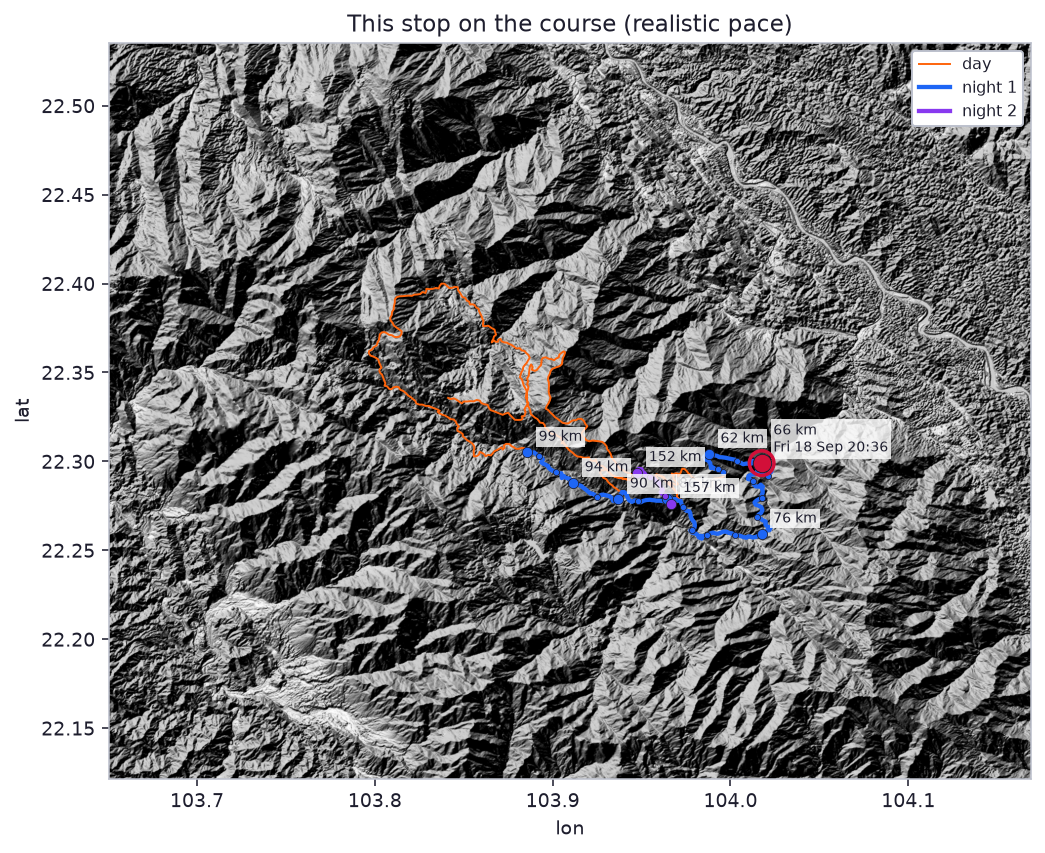
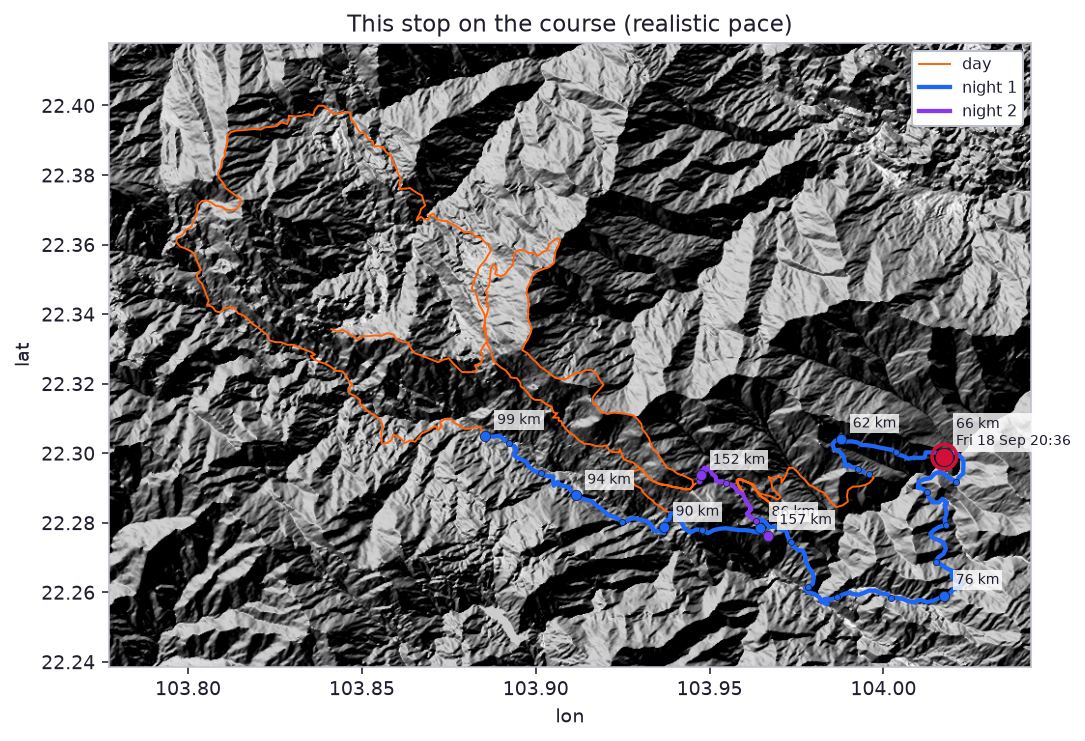
fix: crop course maps to the track
The hillshade used the 15 km DEM buffer, so the route sat in empty terrain. Frame the track plus 2 km so the day and night stretches fill the map.

diff --git a/scripts/plots.py b/scripts/plots.py
@@ -16,7 +16,7 @@ from catalog import NAV_STARS
 from config import REPO_ROOT, data_dir, load_config
 from horizon import horizon_along_azs, horizon_at_az, horizon_profile, load_dem_array
 from report import altitude_stem, fmt_hours, fmt_time, rows_for_sample, sample_stem
-from utils import dump_json, ensure_parent, load_json, sample_along
+from utils import bbox_of, dump_json, ensure_parent, expand_bbox, load_json, sample_along
 
 from gpx import read_track, write_spots_gpx
 
@@ -40,6 +40,7 @@ LOCAL_PEAK_BUMP = 0.08
 SPOT_GAP_KM = 4.0
 SPOT_MAX_PER_NIGHT = 8
 SPOT_SCORE_FLOOR = 0.7
+COURSE_PAD_KM = 2.0
 NIGHT_COLORS = {1: "#1e66f5", 2: "#8839ef", 3: "#40a02b"}
 PLANET_COLORS = {
     "Mercury": "#7c7f93",
@@ -360,6 +361,18 @@ def _draw_hillshade(ax: Any, dem_array: np.ndarray, dem_transform: Any) -> None:
     )
 
 
+def _frame_track(
+    ax: Any,
+    lons: np.ndarray,
+    lats: np.ndarray,
+    pad_km: float = COURSE_PAD_KM,
+) -> None:
+    box = expand_bbox(bbox_of(lons, lats), pad_km)
+    ax.set_xlim(box["west"], box["east"])
+    ax.set_ylim(box["south"], box["north"])
+    ax.set_aspect("equal", adjustable="box")
+
+
 def _draw_course_track(
     ax: Any,
     lons: np.ndarray,
@@ -474,7 +487,7 @@ def plot_course(
             if is_hi:
                 text = f"{text}\n{fmt_time(sample['time'])}"
             _annotate(ax, text, (sample["lon"], sample["lat"]))
-    ax.set_aspect("equal", adjustable="box")
+    _frame_track(ax, lons, lats)
     ax.set_xlabel("lon")
     ax.set_ylabel("lat")
     title = "Stargazing stops on course (realistic pace)"
@@ -556,7 +569,7 @@ def plot_spots(
             f"{row['dist_km']:.0f} km · {row['score']:.2f}",
             (row["lon"], row["lat"]),
         )
-    ax_map.set_aspect("equal", adjustable="box")
+    _frame_track(ax_map, lons, lats)
     ax_map.set_xlabel("lon")
     ax_map.set_ylabel("lat")
     _style_axes(ax_map, "Stargazing spots (realistic-pace night samples)")

diff --git a/tests/test_plots.py b/tests/test_plots.py
@@ -17,6 +17,7 @@ from horizon import load_dem_array
 from plots import (
     _altitude_series,
     _clock_axis,
+    _frame_track,
     _local_time,
     altaz_to_rtheta,
     guide_label,
@@ -29,6 +30,7 @@ from plots import (
     write_plots,
 )
 from report import disc_stem
+from utils import bbox_of, expand_bbox
 
 from gpx import read_track
 
@@ -42,6 +44,20 @@ class TestPlots(unittest.TestCase):
         r, theta = altaz_to_rtheta(0.0, 0.0)
         self.assertAlmostEqual(r, 90.0)
         self.assertAlmostEqual(theta, 0.0)
+
+    def test_frame_track_crops_to_padded_course(self) -> None:
+        fig, ax = plt.subplots()
+        ax.set_xlim(100.0, 110.0)
+        ax.set_ylim(10.0, 30.0)
+        lons = np.array([103.8, 104.0])
+        lats = np.array([22.3, 22.4])
+        _frame_track(ax, lons, lats, pad_km=2.0)
+        box = expand_bbox(bbox_of(lons, lats), 2.0)
+        self.assertAlmostEqual(ax.get_xlim()[0], box["west"])
+        self.assertAlmostEqual(ax.get_xlim()[1], box["east"])
+        self.assertAlmostEqual(ax.get_ylim()[0], box["south"])
+        self.assertAlmostEqual(ax.get_ylim()[1], box["north"])
+        plt.close(fig)
 
     def test_rel_bearing_ahead_left_right_wrap(self) -> None:
         self.assertAlmostEqual(rel_bearing_deg(90.0, 90.0), 0.0)
